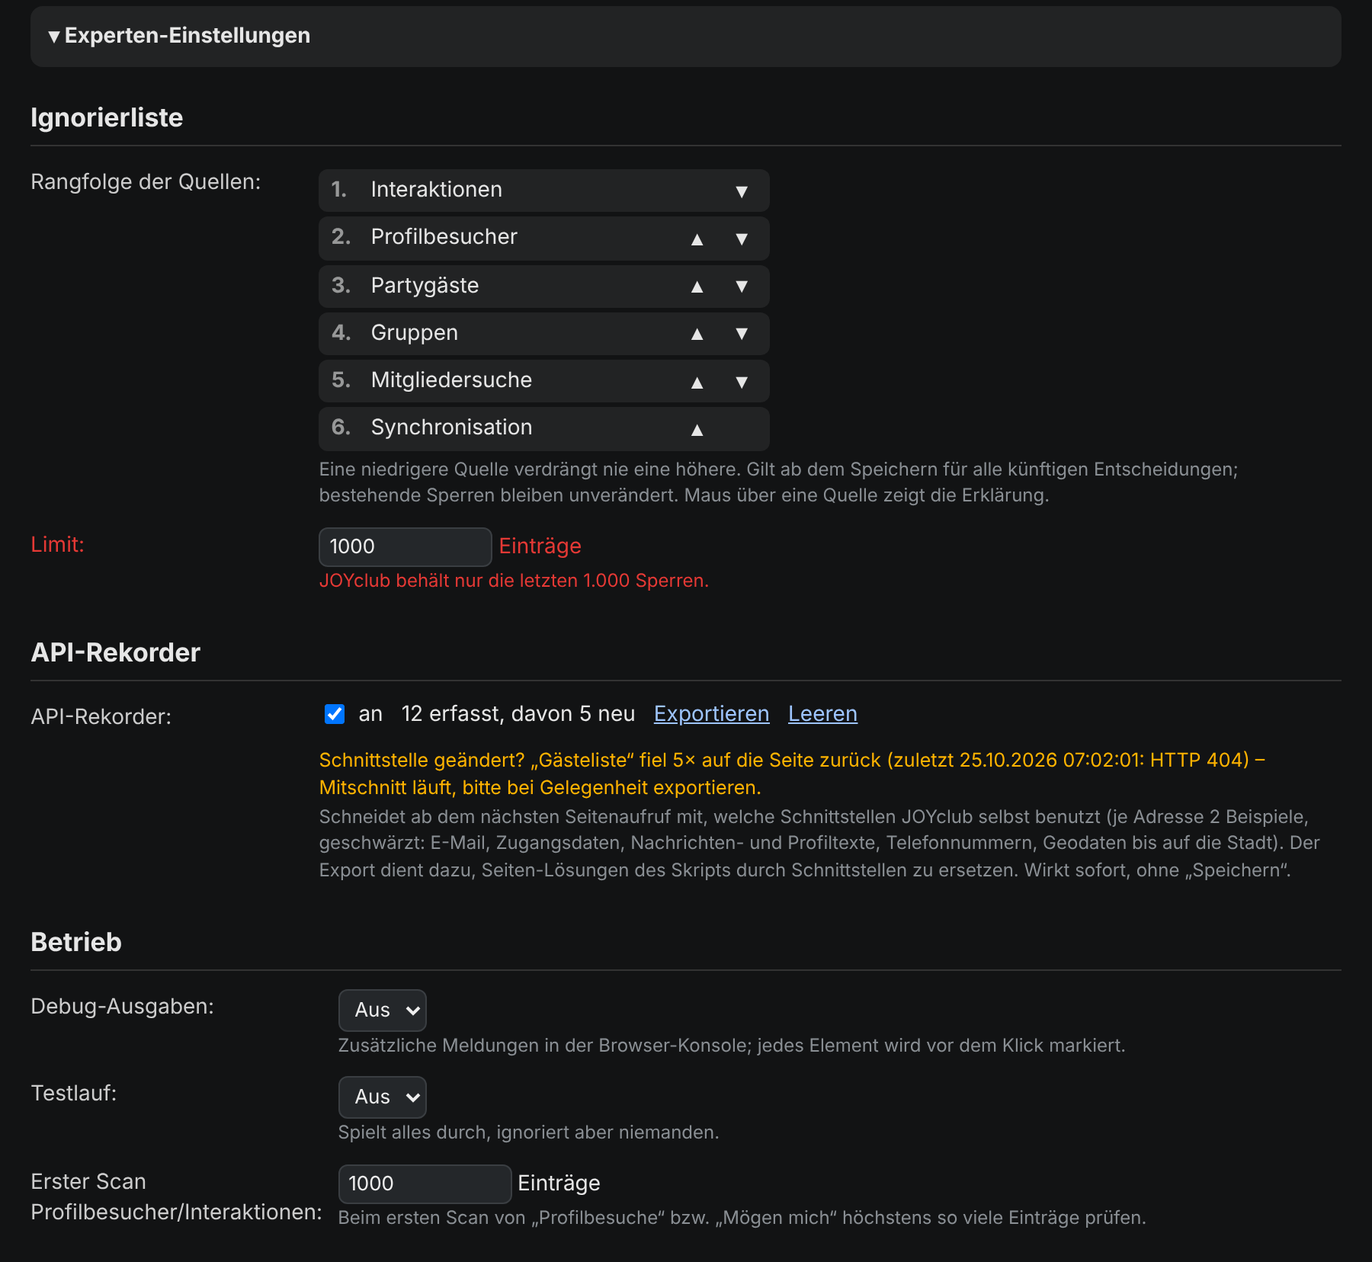
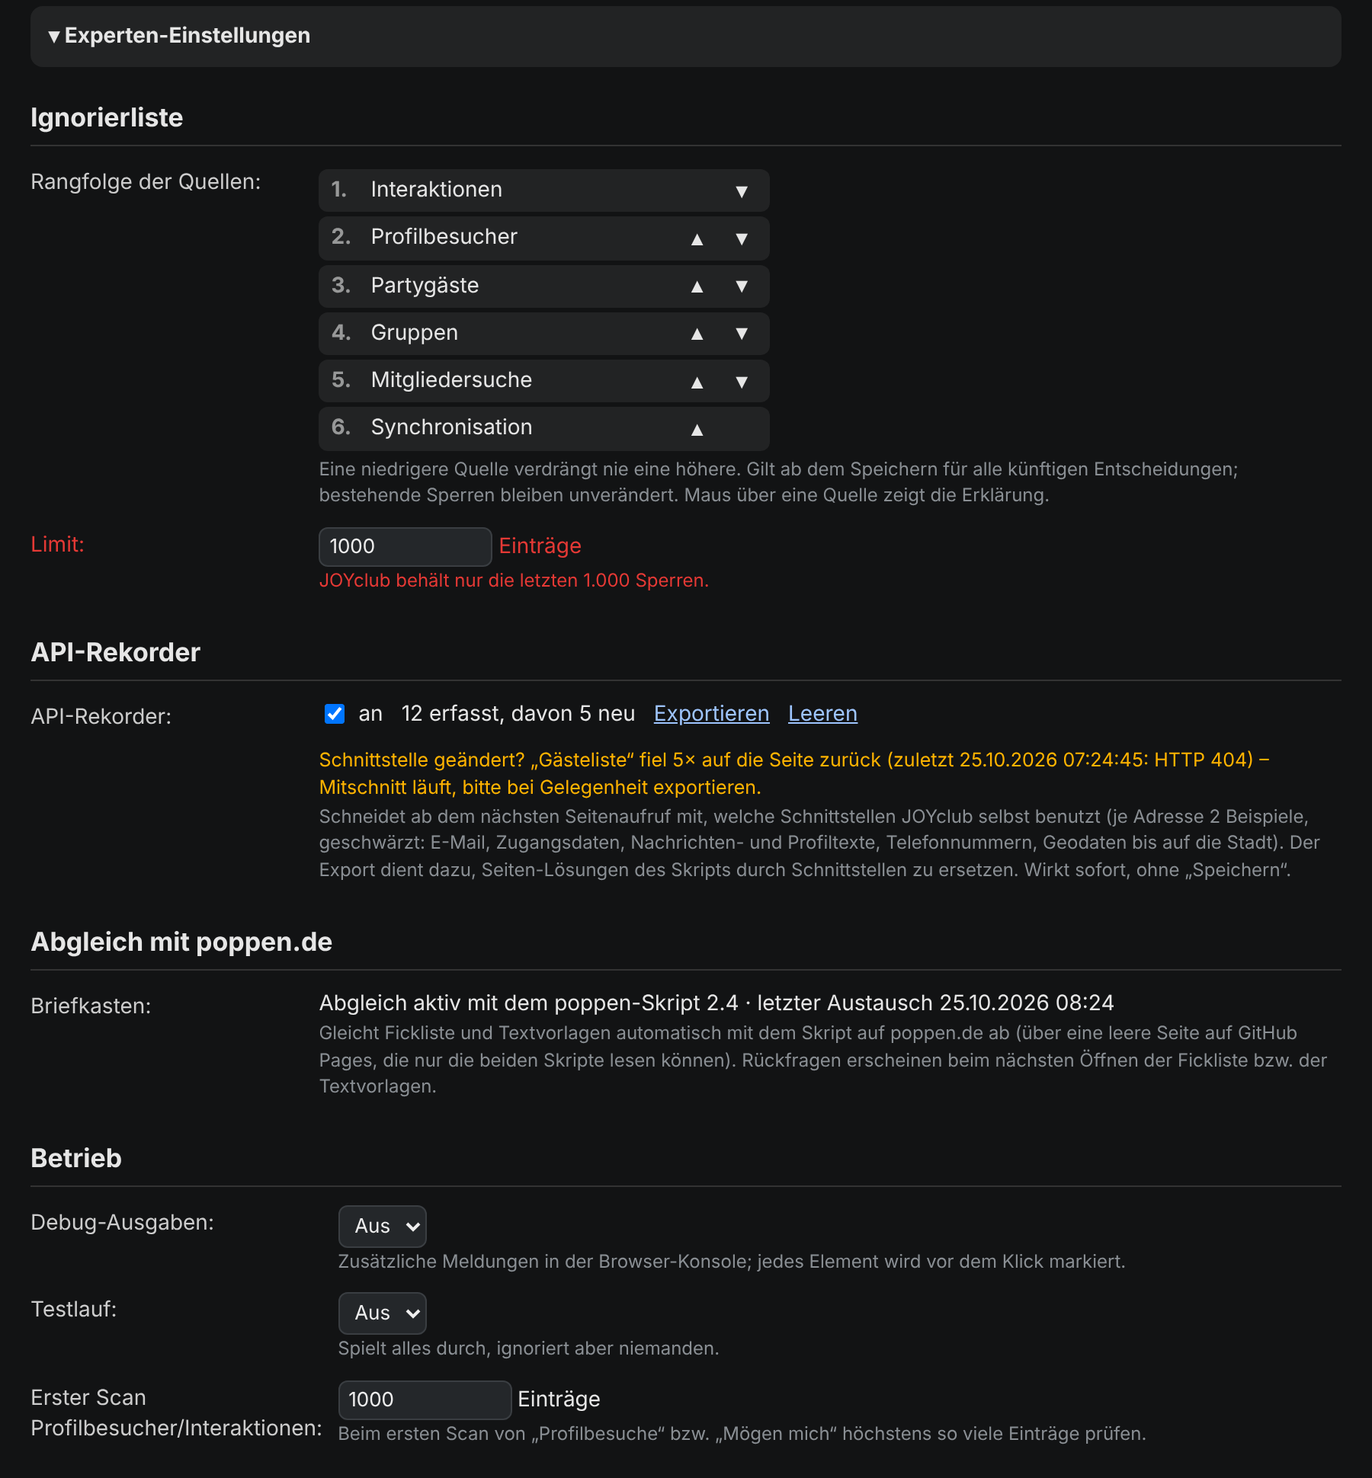
Version 1.90: Briefkasten-Abgleich mit dem poppen-Skript
- Leere Seite auf GitHub Pages wird unsichtbar eingebettet; beide Skripte
  tauschen über deren localStorage aus (Postausgang, Quittung, Hallo)
- Fickliste: geänderte Personen einzeln, erster Kontakt vollständig
- Textvorlagen: nach jedem Abgleich mit JOYclub
- Rückfragen werden vorgemerkt und beim nächsten Öffnen gestellt
- Auf poppen.de nur passiv; Status in den Experten-Einstellungen

Claude-Session: https://claude.ai/code/session_01JukiSgoV5C1VVg8mj2EZW8

diff --git a/joyclub-mitglieder-alter-blockieren.user.js b/joyclub-mitglieder-alter-blockieren.user.js
@@ -1,10 +1,13 @@
 // ==UserScript==
 // @name         JOYclub – Mitgliedersuche nach Alter ignorieren
 // @namespace    local.joyclub-age-filter
-// @version      1.89
+// @version      1.90
 // @description  Opa-Scan für JOYclub: Interaktionen, Profilbesucher, Partys, Gruppen und Mitgliedersuche nach Alter je Gruppe (Männer, Frauen, Paare) und Quelle durchsuchen und Treffer ignorieren; Einstellungsseite, Whitelist, Ignorierlisten-Limit, AWO-Faktor, Sicherung.
 // @match        https://www.joyclub.de/*
 // @match        https://identity.joyclub.com/*
+// @match        https://www.poppen.de/*
+// @match        https://poppen.de/*
+// @match        https://schimmelreiter.github.io/joyclub-opa-scan/briefkasten.html*
 // @icon         https://www.google.com/s2/favicons?sz=64&domain=joyclub.de
 // @grant        GM_getValue
 // @grant        GM_setValue
@@ -28,6 +31,88 @@
 
 (function () {
   'use strict';
+  // ---------- Briefkasten: Abgleich mit dem Skript auf poppen.de (ab 1.90) ----------
+  // Eine leere Seite ohne Code auf GitHub Pages wird unsichtbar eingebettet. Beide Skripte laufen darin und tauschen über
+  // deren localStorage aus – die Seiten-Codes von JOYclub und poppen.de kommen an diesen Speicher nicht heran.
+  // Seite ↔ eigenes iframe nur über den eigenen GM-Speicher (kein postMessage). Auf poppen.de ist das Skript passiv.
+  const BK_URL = 'https://schimmelreiter.github.io/joyclub-opa-scan/briefkasten.html';
+  const BK_HOST = 'schimmelreiter.github.io';
+  const BK_ME = 'joyclub', BK_OTHER = 'poppen';
+  const K_BK_OUT = 'jaf_bk_outbox';   // eigener Postausgang { v, platform, account, ts, items: [{ seq, ts, kind, data }] }
+  const K_BK_SEQ = 'jaf_bk_seq';      // letzte vergebene seq
+  const K_BK_ACK = 'jaf_bk_acked';    // höchste seq, die das poppen-Skript quittiert hat
+  const K_BK_IN = 'jaf_bk_in';        // empfangene, noch nicht verarbeitete Einträge [{ seq, ts, kind, data, account }]
+  const K_BK_INSEQ = 'jaf_bk_inseq';  // höchste übernommene seq des poppen-Skripts
+  const K_BK_ALIVE = 'jaf_bk_alive';  // Lebenszeichen des iframes { ts, ls: Speicher nutzbar }
+  const K_BK_PEER = 'jaf_bk_peer';    // Lebenszeichen des poppen-Skripts { ts, version, seen }
+  const bkLs = (fn) => { try { return fn(window.localStorage); } catch (e) { return undefined; } };
+  function bkFrameMain() {
+    const gv = (k, d) => { try { const v = GM_getValue(k, d); return v === undefined ? d : v; } catch (e) { return d; } };
+    const ok = bkLs((ls) => { ls.setItem('opa-bk:test', '1'); const r = ls.getItem('opa-bk:test') === '1'; ls.removeItem('opa-bk:test'); return r; }) === true;
+    GM_setValue(K_BK_ALIVE, { ts: Date.now(), ls: ok });
+    if (!ok) return;
+    const ver = (typeof GM_info !== 'undefined' && GM_info.script && GM_info.script.version) || '';
+    bkLs((ls) => ls.setItem(`opa-bk:hello:${BK_ME}`, JSON.stringify({ v: 1, ts: Date.now(), script: 'opa-scan', version: ver })));
+    const ping = () => { try { window.dispatchEvent(new CustomEvent('opa-bk')); } catch (e) { /* egal */ } };
+    const publish = () => {
+      const ob = gv(K_BK_OUT, null);
+      if (!ob) return;
+      bkLs((ls) => ls.setItem(`opa-bk:out:${BK_ME}`, JSON.stringify(ob)));
+      ping();
+    };
+    let busy = false;
+    const read = () => {
+      if (busy) return;
+      busy = true;
+      try {
+        const peer = bkLs((ls) => ls.getItem(`opa-bk:hello:${BK_OTHER}`));
+        if (peer) { try { const p = JSON.parse(peer); const o = gv(K_BK_PEER, {}) || {}; if (o.ts !== p.ts) GM_setValue(K_BK_PEER, Object.assign({}, p, { seen: Date.now() })); } catch (e) { /* egal */ } }
+        const ack = +bkLs((ls) => ls.getItem(`opa-bk:ack:${BK_ME}`)) || 0;
+        if (ack && ack !== gv(K_BK_ACK, 0)) GM_setValue(K_BK_ACK, ack);
+        const raw = bkLs((ls) => ls.getItem(`opa-bk:out:${BK_OTHER}`));
+        if (!raw) return;
+        let ob; try { ob = JSON.parse(raw); } catch (e) { return; }
+        const items = (ob && Array.isArray(ob.items) ? ob.items : []).filter((x) => x && Number.isFinite(+x.seq));
+        if (!items.length) return;
+        let last = +gv(K_BK_INSEQ, 0) || 0;
+        const max = Math.max(...items.map((x) => +x.seq));
+        if (max < last) last = 0; // Speicher drüben zurückgesetzt
+        const fresh = items.filter((x) => +x.seq > last).sort((a, b) => a.seq - b.seq);
+        if (fresh.length) {
+          const inbox = gv(K_BK_IN, []) || [];
+          for (const x of fresh) inbox.push(Object.assign({}, x, { account: ob.account || '', platform: ob.platform || BK_OTHER }));
+          GM_setValue(K_BK_IN, inbox.slice(-500));
+          GM_setValue(K_BK_INSEQ, max);
+        }
+        bkLs((ls) => ls.setItem(`opa-bk:ack:${BK_OTHER}`, String(max)));
+      } finally { busy = false; }
+    };
+    try { GM_addValueChangeListener(K_BK_OUT, () => publish()); } catch (e) { /* egal */ }
+    window.addEventListener('opa-bk', () => setTimeout(read, 50));
+    window.addEventListener('storage', () => read());
+    publish(); read();
+    setInterval(() => { read(); GM_setValue(K_BK_ALIVE, { ts: Date.now(), ls: true }); }, 5000);
+  }
+  // Briefkasten in die besuchte Seite einbetten (nur im obersten Fenster, nur einmal je Tab)
+  function bkEnsureFrame() {
+    if (window.top !== window) return;
+    setTimeout(() => {
+      if (document.getElementById('opa-briefkasten') || !document.documentElement) return;
+      const f = document.createElement('iframe');
+      f.id = 'opa-briefkasten';
+      f.src = `${BK_URL}#host=${location.hostname}`;
+      f.setAttribute('aria-hidden', 'true'); f.tabIndex = -1;
+      f.style.cssText = 'position:fixed;width:0;height:0;border:0;left:-9999px;top:-9999px;visibility:hidden';
+      document.documentElement.appendChild(f);
+    }, Math.floor(Math.random() * 1500));
+  }
+  if (location.hostname === BK_HOST) { if (window.top !== window && /\/briefkasten\.html$/.test(location.pathname)) bkFrameMain(); return; }
+  if (/(^|\.)poppen\.de$/.test(location.hostname)) {
+    // passiv: nur den Briefkasten einbetten – keine Oberfläche, keine Eingriffe, keine Aufrufe
+    if (document.readyState === 'loading') document.addEventListener('DOMContentLoaded', bkEnsureFrame, { once: true }); else bkEnsureFrame();
+    return;
+  }
+
   // ---------- API-Rekorder 2 (läuft ab Seitenstart: wenn eingeschaltet oder wenn eine Schnittstelle des Skripts 5× in Folge versagte) ----------
   // Je Adresse/Payload-Aufbau die ersten 2 Beispiele (Dauerläufer 1), Listen auf 2 Einträge + Gesamtzahl gekürzt.
   // Geschwärzt: E-Mail, Passwörter/Token/Schlüssel/Sitzungskennungen, Nachrichten- und Profiltexte, Telefonnummern, Geodaten bis auf die Stadt.
@@ -9058,6 +9143,9 @@
       row(tb2, 'Limit:', num('IGNORE_LIMIT', 'Einträge', 10, 100000), `JOYclub behält nur die letzten ${Number(d.IGNORE_LIMIT).toLocaleString('de-DE')} Sperren.`, { key: 'IGNORE_LIMIT', red: true });
       tb2 = section('API-Rekorder');
       row(tb2, 'API-Rekorder:', apiRecControl(), 'Schneidet ab dem nächsten Seitenaufruf mit, welche Schnittstellen JOYclub selbst benutzt (je Adresse 2 Beispiele, geschwärzt: E-Mail, Zugangsdaten, Nachrichten- und Profiltexte, Telefonnummern, Geodaten bis auf die Stadt). Der Export dient dazu, Seiten-Lösungen des Skripts durch Schnittstellen zu ersetzen. Wirkt sofort, ohne „Speichern“.');
+      tb2 = section('Abgleich mit poppen.de');
+      { const bs = document.createElement('div'); bs.className = 'jaf-bk-status'; bs.textContent = bkStatusText(); const rf = setInterval(() => { if (!bs.isConnected) { clearInterval(rf); return; } bs.textContent = bkStatusText(); }, 2000);
+        row(tb2, 'Briefkasten:', bs, 'Gleicht Fickliste und Textvorlagen automatisch mit dem Skript auf poppen.de ab (über eine leere Seite auf GitHub Pages, die nur die beiden Skripte lesen können). Rückfragen erscheinen beim nächsten Öffnen der Fickliste bzw. der Textvorlagen.'); }
       tb2 = section('Betrieb');
       row(tb2, 'Debug-Ausgaben:', onOff('DEBUG'), 'Zusätzliche Meldungen in der Browser-Konsole; jedes Element wird vor dem Klick markiert.', { key: 'DEBUG' });
       row(tb2, 'Testlauf:', onOff('DRY_RUN'), 'Spielt alles durch, ignoriert aber niemanden.', { key: 'DRY_RUN' });
@@ -10722,13 +10810,14 @@
       const roots = [...new Set(keys.map((k) => idx.get(k)).filter(Boolean).map((id) => flPrimaryId(id)))];
       if (!roots.length) { const id = flCreateFromX(X); flMergeIn(X, id, true); st.neu++; continue; }
       if (roots.length === 1) { if (flMergeIn(X, roots[0])) st.auto++; else st.same++; continue; }
-      conflicts.push({ X, roots });
+      conflicts.push({ X, roots, X0 });
     }
     for (const c of conflicts) {
       st.conflict++;
       const roots = c.roots.filter((r) => flGet(r));
       const names = roots.map((r) => flGet(r).nick);
       const yes = await ask(c.X, names);
+      if (yes === 'defer') { (st.deferred = st.deferred || []).push(c.X0); st.conflict--; continue; }
       if (yes) {
         const joy = roots.filter((r) => !flIsExt(r));
         const into = joy[0] || roots[0];
@@ -12737,6 +12826,7 @@
       delete s.meta[id];
     }
     tplSave(s);
+    try { bkCheckTemplates(list, s); } catch (e) { /* Briefkasten ist Nebensache */ }
     return { list, s };
   }
 
@@ -12779,6 +12869,7 @@
     const base = s.base[pk] = s.base[pk] || {};
     const rep = [];
     const unknown = new Set();
+    const deferred = [];
     const byUid = new Map(), byName = new Map();
     for (const n of list) { const m = s.meta[String(n.id)]; byUid.set(m.uid, n); byName.set(norm(n.name), n); }
     let count = list.length;
@@ -12827,7 +12918,11 @@
         const m = s.meta[String(L.id)];
         const changed = base[m.uid] && base[m.uid] !== m.hash;
         let del = !changed;
-        if (changed || !base[m.uid]) del = (await ask('delete', { name: L.name, text: L.text, by: T.updatedBy, at: T.deletedAt })) === 'delete';
+        if (changed || !base[m.uid]) {
+          const a = await ask('delete', { name: L.name, text: L.text, by: T.updatedBy, at: T.deletedAt });
+          if (a === 'defer') { deferred.push(T); rep.push([L.name, 'Rückfrage wartet']); continue; }
+          del = a === 'delete';
+        }
         if (del) {
           await tplApiDelete(L.id);
           s.trash.push({ uid: m.uid, name: L.name, text: L.text, deletedAt: Date.now(), by: T.updatedBy || null });
@@ -12861,6 +12956,7 @@
       if (res && res.text.length > TPL_TEXT_MAX) res = null;
       if (!res) {
         const a = await ask('conflict', { name: L.name, mine: L.text, other: smToJoy(Rtext, from, unknown), otherBy: T.updatedBy, otherAt: T.updatedAt, myAt: m.at, myBy: m.by });
+        if (a === 'defer') { deferred.push(T); rep.push([L.name, 'Rückfrage wartet']); continue; }
         if (a === 'other') res = { text: smToJoy(Rtext, from, unknown).slice(0, TPL_TEXT_MAX), how: 'ersetzt' };
         else if (a === 'both') {
           const nn = freeName(name);
@@ -12876,7 +12972,7 @@
       rep.push([newName, res.how]);
     }
     tplSave(s);
-    return { rep, unknown: [...unknown] };
+    return { rep, unknown: [...unknown], deferred };
   }
 
   // ---- Popups (eigener <dialog>, damit sie über JOYclubs Overlay liegen und bedienbar sind) ----
@@ -13196,6 +13292,179 @@
     }
   }
   setInterval(() => { try { tplUiTick(); } catch (e) { /* weiter */ } }, 1000);
+
+  // =====================================================================
+  // ---------- Briefkasten: Postausgang füllen, Eingang verarbeiten (JOYclub-Seite, oberstes Fenster) ----------
+  // Fickliste: geänderte Personen werden einzeln gesendet (Vergleich mit dem zuletzt gesendeten Stand je Person).
+  // Textvorlagen: nach jedem Abgleich mit JOYclub (tplSync) geänderte Vorlagen. Erster Kontakt / Zurücksetzen: „full“.
+  // Eingang: wie ein Import, aber Rückfragen werden nicht gestellt, sondern vorgemerkt und beim nächsten Öffnen der
+  // Fickliste bzw. der Textvorlagen angezeigt.
+  // =====================================================================
+  const K_BK_SENT = 'jaf_bk_sent';       // { p: { id: hash }, t: { uid: hash } } – zuletzt gesendeter Stand
+  const K_BK_PEND_FL = 'jaf_bk_pend_fl'; // vorgemerkte Fickliste-Rückfragen [Person]
+  const K_BK_PEND_TPL = 'jaf_bk_pend_tpl'; // vorgemerkte Vorlagen-Rückfragen { account, templates: [] }
+  const K_BK_STAT = 'jaf_bk_stat';
+  const K_BK_RETRY = 'jaf_bk_retry';     // Vorlagen, die wegen eines Schnittstellenfehlers später erneut versucht werden       // { start, ok, ls, sent, recv, err }
+  const BK_MAX_BYTES = 1024 * 1024;
+  const bkHash = (s) => { let h = 2166136261; for (let i = 0; i < s.length; i++) { h ^= s.charCodeAt(i); h = Math.imul(h, 16777619); } return (h >>> 0).toString(36) + ':' + s.length; };
+  const bkStat = (patch) => { const s = Object.assign({}, GM_getValue(K_BK_STAT, {}) || {}, patch); GM_setValue(K_BK_STAT, s); return s; };
+  function bkEnqueue(kind, data, opt = {}) {
+    const acked = +GM_getValue(K_BK_ACK, 0) || 0;
+    let seq = +GM_getValue(K_BK_SEQ, 0) || 0;
+    if (acked > seq) seq = acked; // eigener Speicher zurückgesetzt → weiterzählen
+    const ob = GM_getValue(K_BK_OUT, null) || { v: 1, platform: BK_ME, items: [] };
+    ob.items = (ob.items || []).filter((x) => x.seq > acked);
+    const add = (k, d) => { seq++; ob.items.push({ seq, ts: Date.now(), kind: k, data: d }); };
+    if (Array.isArray(data)) data.forEach((d) => add(kind, d)); else add(kind, data);
+    ob.account = ownNick() || ob.account || ''; ob.ts = Date.now(); ob.v = 1; ob.platform = BK_ME;
+    if (!opt.noOverflow && JSON.stringify(ob).length > BK_MAX_BYTES) { GM_setValue(K_BK_SEQ, seq); bkSendFull(); return; }
+    GM_setValue(K_BK_SEQ, seq);
+    GM_setValue(K_BK_OUT, ob);
+    bkStat({ sent: Date.now() });
+  }
+  // Vorlagen in Austauschform (wie beim Export)
+  function bkTplList(list, s) {
+    const out = list.map((n) => { const m = s.meta[String(n.id)]; return m.first ? { id: m.uid, name: n.name, text: n.text } : { id: m.uid, name: n.name, text: n.text, updatedAt: m.at, updatedBy: m.by }; });
+    for (const t of s.trash) out.push({ id: t.uid, name: t.name, text: '', deletedAt: t.deletedAt, updatedBy: t.by });
+    return out;
+  }
+  let bkTplLast = null; // letzte bekannte Vorlagenliste (aus tplSync)
+  function bkSendFull() {
+    const persons = flExportPersons();
+    const data = { persons };
+    const sent = { p: {}, t: {} };
+    for (const p of persons) sent.p[p.id] = bkHash(JSON.stringify(p));
+    if (bkTplLast) { data.templates = bkTplLast; for (const t of bkTplLast) sent.t[t.id] = bkHash(JSON.stringify(t)); }
+    const acked = +GM_getValue(K_BK_ACK, 0) || 0;
+    let seq = Math.max(+GM_getValue(K_BK_SEQ, 0) || 0, acked) + 1;
+    GM_setValue(K_BK_SEQ, seq);
+    GM_setValue(K_BK_OUT, { v: 1, platform: BK_ME, account: ownNick() || '', ts: Date.now(), items: [{ seq, ts: Date.now(), kind: 'full', data }] });
+    GM_setValue(K_BK_SENT, sent);
+    bkStat({ sent: Date.now(), full: Date.now() });
+  }
+  function bkCheckPersons() {
+    const sent = GM_getValue(K_BK_SENT, null);
+    if (!sent || !sent.p) return false; // noch nie gesendet → Vollabgleich
+    const changed = [];
+    for (const p of flExportPersons()) {
+      const h = bkHash(JSON.stringify(p));
+      if (sent.p[p.id] !== h) { changed.push(p); sent.p[p.id] = h; }
+    }
+    if (changed.length) { bkEnqueue('person', changed); GM_setValue(K_BK_SENT, sent); }
+    return true;
+  }
+  function bkCheckTemplates(list, s) {
+    bkTplLast = bkTplList(list, s);
+    const sent = GM_getValue(K_BK_SENT, null);
+    if (!sent) return;
+    sent.t = sent.t || {};
+    const changed = [];
+    for (const t of bkTplLast) { const h = bkHash(JSON.stringify(t)); if (sent.t[t.id] !== h) { changed.push(t); sent.t[t.id] = h; } }
+    if (changed.length) { bkEnqueue('template', changed); GM_setValue(K_BK_SENT, sent); }
+  }
+  // Eingang verarbeiten
+  let bkWorking = false;
+  async function bkProcessInbox() {
+    if (bkWorking) return;
+    let inbox = GM_getValue(K_BK_IN, []) || [];
+    const retry = GM_getValue(K_BK_RETRY, null);
+    if (retry && retry.at <= Date.now()) { GM_setValue(K_BK_RETRY, null); inbox = retry.items.concat(inbox); }
+    if (!inbox.length) return;
+    bkWorking = true;
+    try {
+      GM_setValue(K_BK_IN, []);
+      const persons = [], templates = [];
+      let account = '';
+      for (const x of inbox) {
+        account = x.account || account;
+        const d = x.data || {};
+        if (x.kind === 'person' && d) persons.push(d);
+        else if (x.kind === 'template' && d) templates.push(d);
+        else if (x.kind === 'full') { (d.persons || []).forEach((p) => persons.push(p)); (d.templates || []).forEach((t) => templates.push(t)); }
+      }
+      // gleiche Person/Vorlage mehrfach → nur der letzte Stand
+      const lastBy = (arr, key) => { const m = new Map(); arr.forEach((v, i) => m.set(key(v) || 'i' + i, v)); return [...m.values()]; };
+      const P = lastBy(persons, (p) => p && p.id), T = lastBy(templates, (t) => t && (t.id || t.name));
+      if (P.length) {
+        const st = await flImportRun({ platform: BK_OTHER, persons: P }, () => 'defer');
+        if (st.deferred && st.deferred.length) GM_setValue(K_BK_PEND_FL, (GM_getValue(K_BK_PEND_FL, []) || []).concat(st.deferred).slice(-200));
+        try { flRefreshAll(); } catch (e) { /* egal */ }
+      }
+      if (T.length) {
+        try {
+          const r = await tplImportRun({ platform: BK_OTHER, account, templates: T }, 'add', async () => 'defer');
+          if (r.deferred && r.deferred.length) {
+            const pend = GM_getValue(K_BK_PEND_TPL, null) || { account, templates: [] };
+            pend.account = account || pend.account;
+            pend.templates = lastBy(pend.templates.concat(r.deferred), (t) => t.id || t.name);
+            GM_setValue(K_BK_PEND_TPL, pend);
+          }
+        } catch (e) {
+          // Schnittstelle gerade nicht erreichbar → später erneut
+          GM_setValue(K_BK_RETRY, { at: Date.now() + 5 * 60000, items: T.map((t) => ({ seq: 0, ts: Date.now(), kind: 'template', data: t, account })) });
+          bkStat({ err: e.message || String(e) });
+        }
+      }
+      bkStat({ recv: Date.now() });
+    } finally { bkWorking = false; }
+  }
+  // vorgemerkte Rückfragen beim Öffnen der Fickliste bzw. der Textvorlagen
+  let bkPendBusy = false;
+  async function bkPendingFl() {
+    const pend = GM_getValue(K_BK_PEND_FL, []) || [];
+    if (!pend.length || bkPendBusy) return;
+    bkPendBusy = true;
+    try {
+      GM_setValue(K_BK_PEND_FL, []);
+      const st = await flImportRun({ platform: BK_OTHER, persons: pend }, (X, names) => flAskMerge(X, names));
+      if (st.neu || st.merged || st.auto) flRefreshAll();
+    } finally { bkPendBusy = false; }
+  }
+  async function bkPendingTpl() {
+    const pend = GM_getValue(K_BK_PEND_TPL, null);
+    if (!pend || !pend.templates || !pend.templates.length || bkPendBusy) return;
+    bkPendBusy = true;
+    try {
+      GM_setValue(K_BK_PEND_TPL, null);
+      await tplImportRun({ platform: BK_OTHER, account: pend.account || '', templates: pend.templates }, 'add', tplAsk);
+      tplUiDirty = true;
+    } finally { bkPendBusy = false; }
+  }
+  function bkStatusText() {
+    const st = GM_getValue(K_BK_STAT, {}) || {}, alive = GM_getValue(K_BK_ALIVE, null), peer = GM_getValue(K_BK_PEER, null);
+    if (!st.start) return 'Noch nicht geprüft.';
+    if (!alive || alive.ts < st.start - 60000) return Date.now() - st.start < 15000 ? 'Wird geprüft …' : 'Briefkasten blockiert – vermutlich durch die Sicherheitsrichtlinie der Seite oder einen Werbeblocker. Export/Import per Hand geht weiter.';
+    if (!alive.ls) return 'Speicher gesperrt – vermutlich ist „Drittanbieter-Cookies blockieren“ eingeschaltet. Export/Import per Hand geht weiter.';
+    if (!peer) return 'Briefkasten bereit. poppen-Skript noch nicht gefunden (es muss einmal auf poppen.de oder hier laufen).';
+    const last = Math.max(st.recv || 0, st.sent || 0);
+    return `Abgleich aktiv mit dem poppen-Skript${peer.version ? ' ' + peer.version : ''}` + (last ? ` · letzter Austausch ${fmtTs(last)}` : '') +
+      (st.err ? ` · zuletzt Fehler: ${st.err}` : '');
+  }
+  function bkStart() {
+    if (IN_FRAME || window.top !== window) return;
+    bkStat({ start: Date.now() });
+    bkEnsureFrame();
+    // erster Kontakt bzw. Zurücksetzen drüben → Vollabgleich
+    const firstCheck = () => {
+      const peer = GM_getValue(K_BK_PEER, null), acked = +GM_getValue(K_BK_ACK, 0) || 0, seq = +GM_getValue(K_BK_SEQ, 0) || 0;
+      if (peer && (!GM_getValue(K_BK_SENT, null) || acked > seq)) bkSendFull();
+    };
+    setTimeout(firstCheck, 4000);
+    try { GM_addValueChangeListener(K_BK_PEER, () => firstCheck()); } catch (e) { /* egal */ }
+    try { GM_addValueChangeListener(K_BK_IN, (k, o, n, remote) => { if (n && n.length) setTimeout(() => bkProcessInbox().catch(() => {}), 300); }); } catch (e) { /* egal */ }
+    setTimeout(() => bkProcessInbox().catch(() => {}), 2500);
+    setInterval(() => { const r = GM_getValue(K_BK_RETRY, null); if (r && r.at <= Date.now()) bkProcessInbox().catch(() => {}); }, 60000);
+    setInterval(() => { try { if (GM_getValue(K_BK_PEER, null)) bkCheckPersons(); } catch (e) { /* egal */ } }, 5000);
+    // Textvorlagen gelegentlich mit JOYclub abgleichen (nur wenn das poppen-Skript bekannt ist)
+    setInterval(() => { if (GM_getValue(K_BK_PEER, null) && !tplSyncing) tplSync().catch(() => {}); }, 15 * 60000);
+    setTimeout(() => { if (GM_getValue(K_BK_PEER, null) && !tplSyncing) tplSync().catch(() => {}); }, 8000);
+  }
+  bkStart();
+  setInterval(() => {
+    if (IN_FRAME) return;
+    try { if (flOverviewPage()) bkPendingFl().catch(() => {}); } catch (e) { /* weiter */ }
+    try { if (document.querySelector('j-overlay[data-e2e="overlay-templates"] [data-e2e="button-add-template"]')) bkPendingTpl().catch(() => {}); } catch (e) { /* weiter */ }
+  }, 2000);
 
   safeInit();
   let lastPath = location.pathname;
